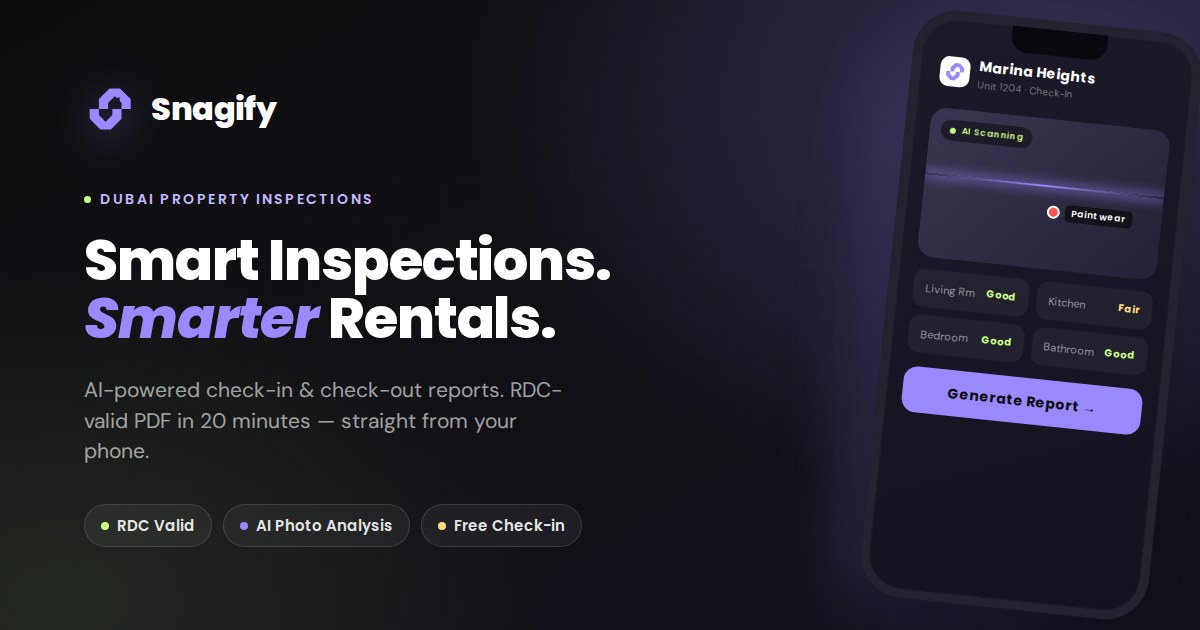
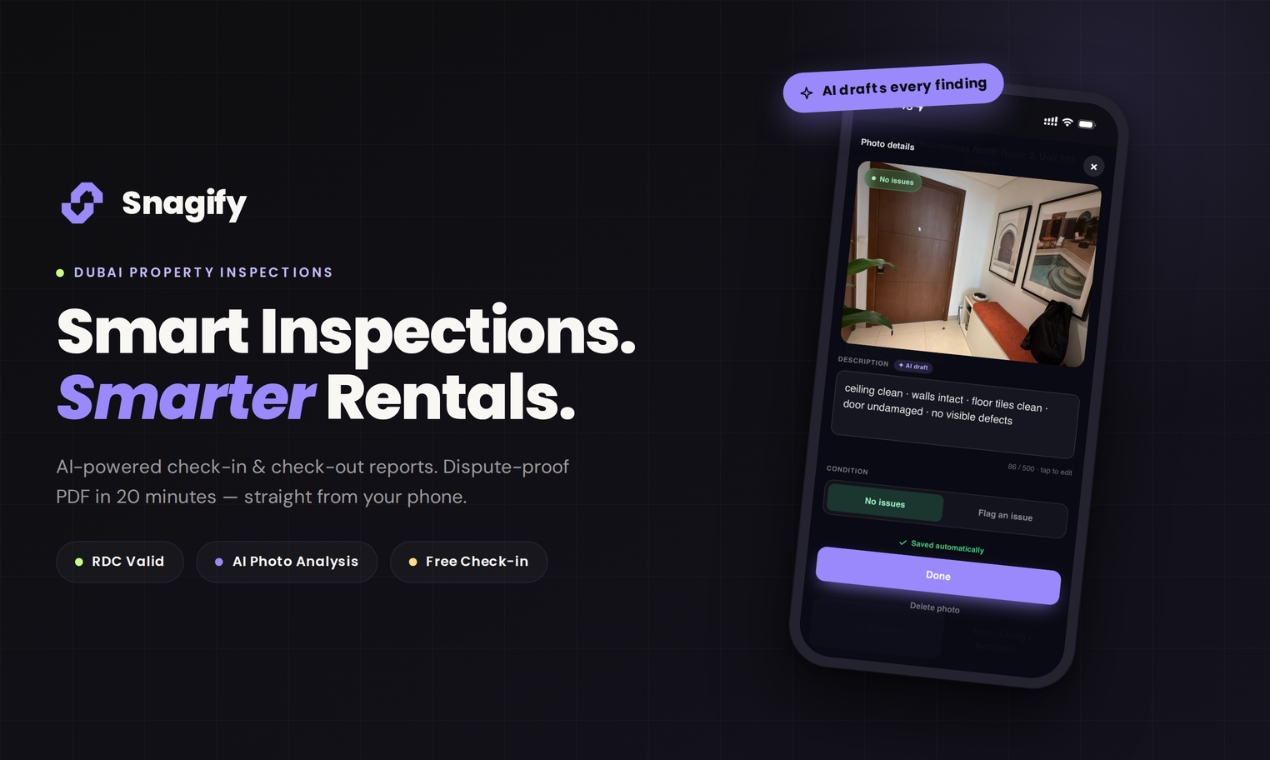
fix: aligner les meta OG image sur le fichier 1270×760
Met à jour og:image:width/height et remplace og-image.jpg pour que les dimensions déclarées correspondent à l’image JPEG réelle.

diff --git a/public/index.html b/public/index.html
@@ -4067,8 +4067,8 @@ footer {
 <meta property="og:image" content="https://snagify.net/og-image.jpg">
 <meta property="og:image:secure_url" content="https://snagify.net/og-image.jpg">
 <meta property="og:image:type" content="image/jpeg">
-<meta property="og:image:width" content="1200">
-<meta property="og:image:height" content="630">
+<meta property="og:image:width" content="1270">
+<meta property="og:image:height" content="760">
 <meta property="og:image:alt" content="Snagify — Dubai property inspection app, RDC valid reports, 20 minutes per inspection.">
 <meta property="og:locale" content="en_AE">
 <meta property="og:locale:alternate" content="en_US">